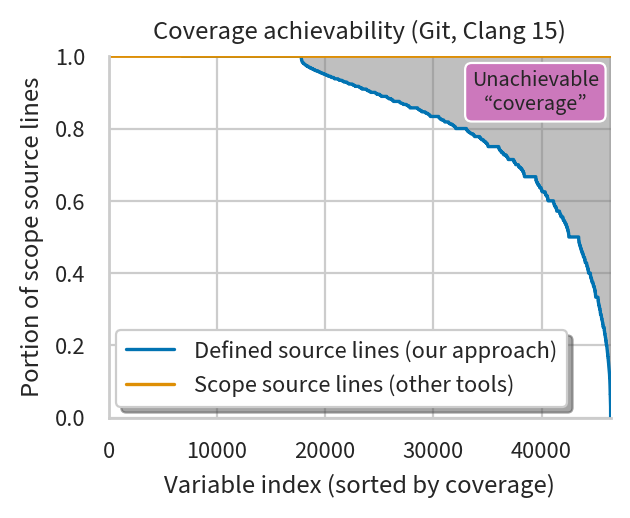
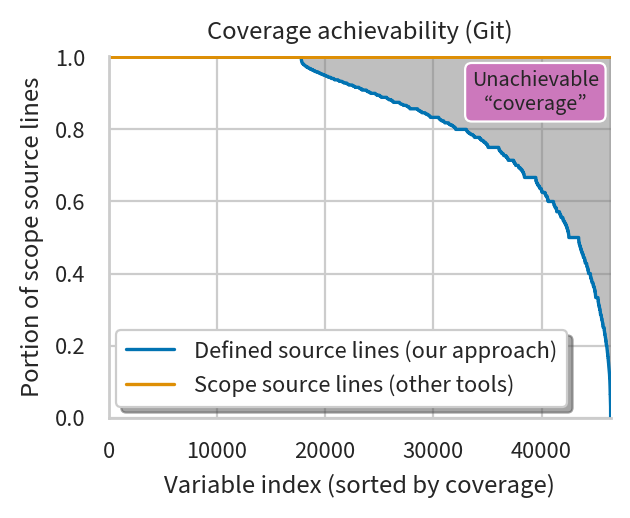
Clarify achievability reference

diff --git a/data/shared/package_plots.py b/data/shared/package_plots.py
@@ -422,11 +422,11 @@ def coverage_achievability(df):
     bbox=dict(boxstyle="round", facecolor="m"),
   )
   g.set(
-    title=f"Coverage achievability ({friendly_name}, Clang 15)",
+    title=f"Coverage achievability ({friendly_name})",
     xlabel="Variable index (sorted by coverage)",
     xbound=(0, df["Order"].max()),
     ylabel="Portion of scope source lines",
-    ybound=(0, 1.002),
+    ybound=(0, 1.005),
   )
 
 def coverage_comparison_ratios_o0_sorted_independently(df):
